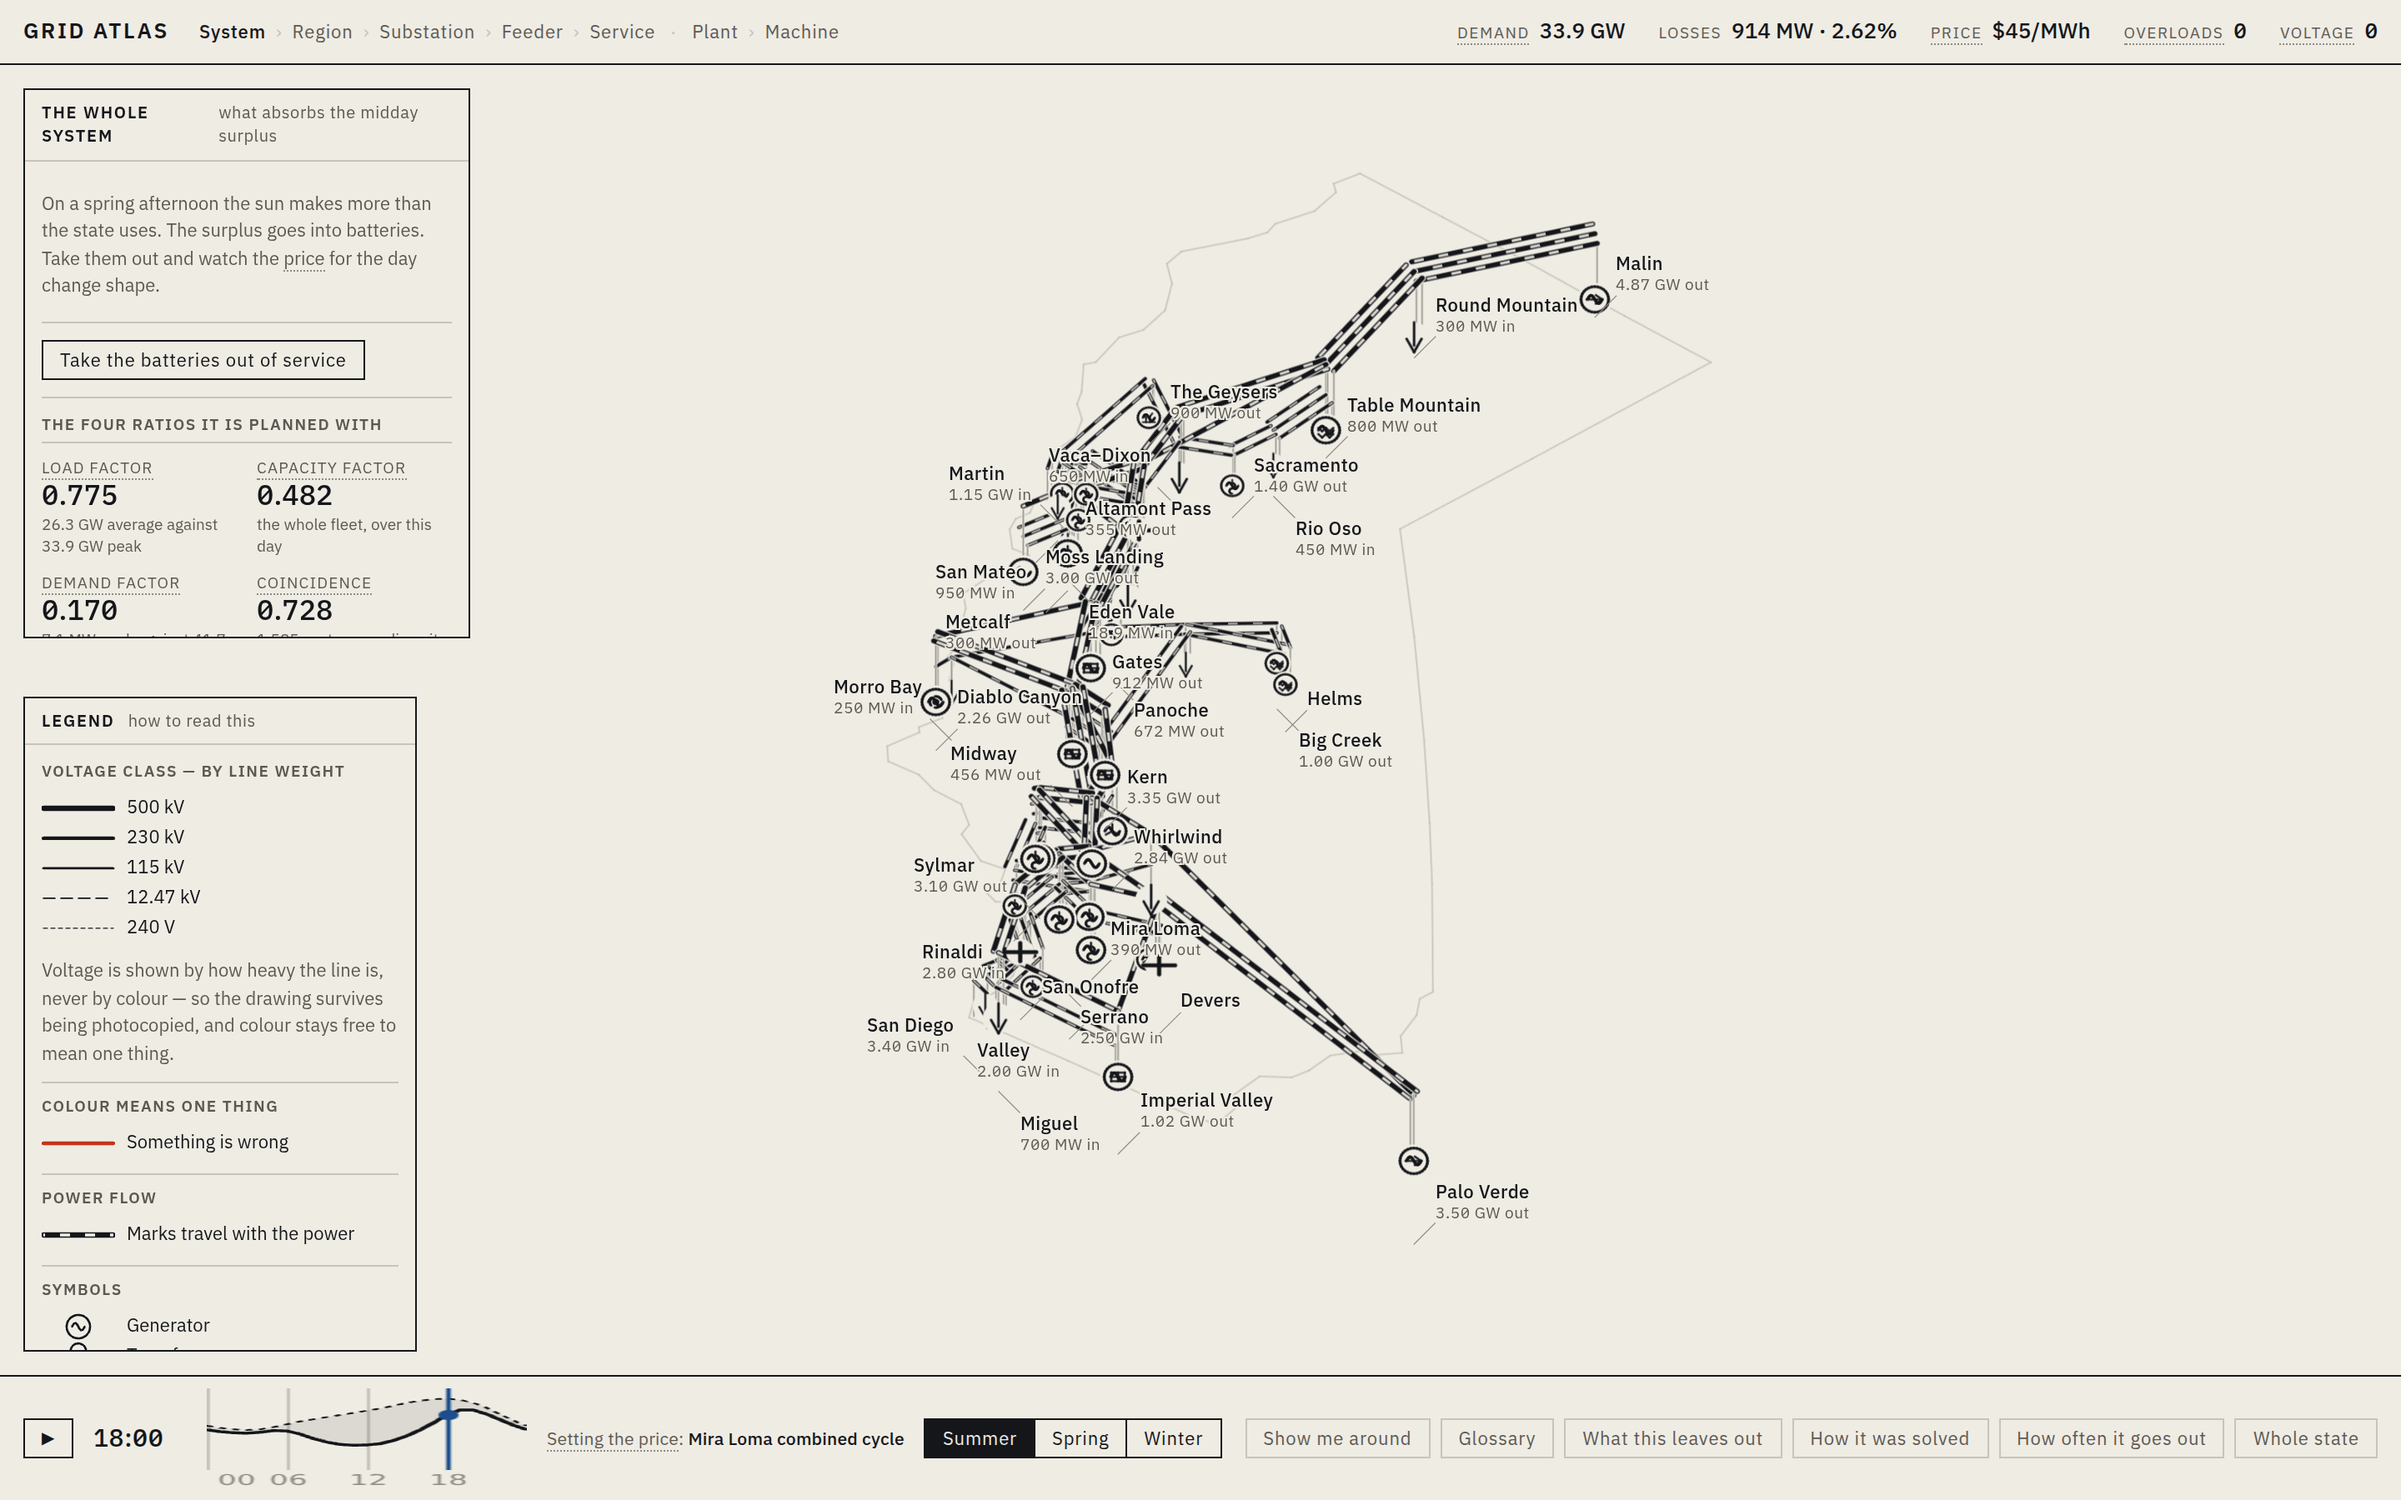
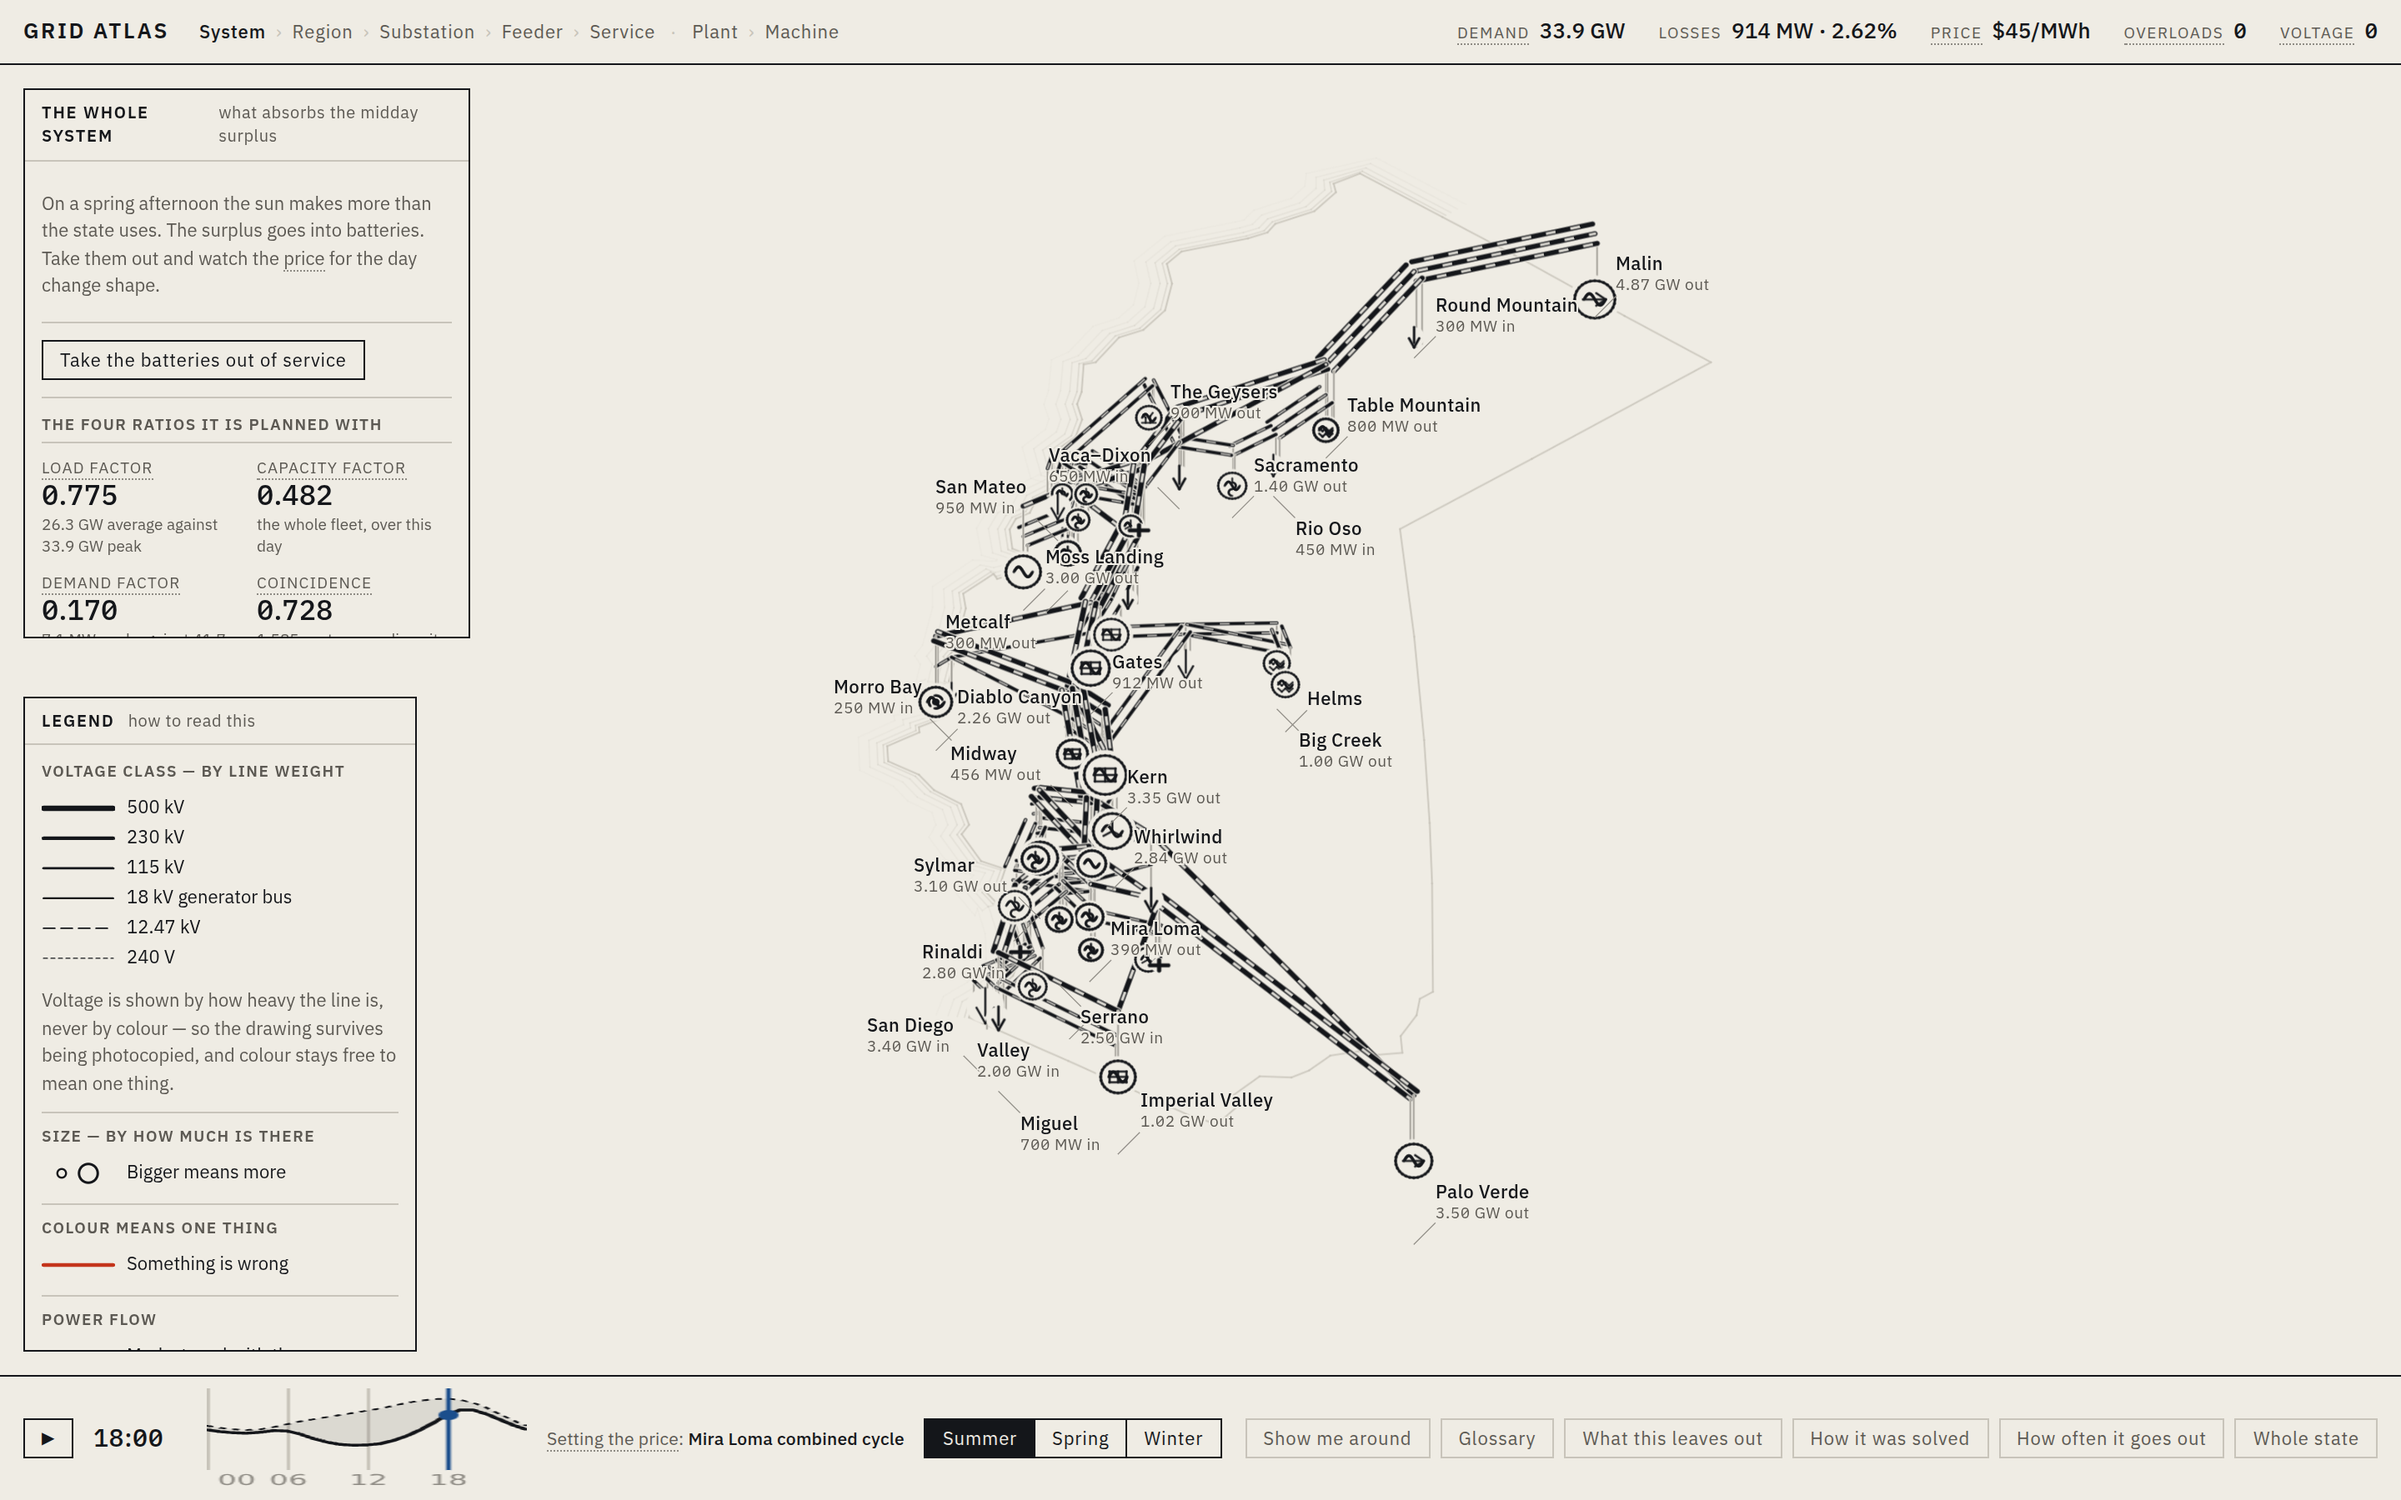
Give California a coast, and let the drawing say how big things are
THE COASTLINE READ AS A SHAPE, not as a coast: one hairline polygon on blank
paper, which is why the system view looked like line work floating in a void.
The Pacific side now gets the convention engraved maps have used for three
hundred years — a few lines parallel to the shore, stepping seaward and
fading. A handful of strokes, unmistakably water, and not a drop of colour or
a square inch of fill. The coastline itself is real Census boundary data; what
is new is a rendering convention applied to it.

The Pacific coast is found from the data rather than from a hand-kept index:
the boundary polygon runs from the Oregon corner east, south, west along the
Mexican border and then north up the coast, so everything after the
southernmost point IS the coast and it cannot drift out of step.

SYMBOL SIZE NOW MEANS SOMETHING. It was the highest voltage at the site, in
three buckets, so Diablo Canyon at 2.26 GW and an empty 500 kV switchyard
were drawn identically. At a glance the most useful thing about a site is how
much machine is there, and the model already knows — installed capacity where
there are generators, peak demand where there is load. Square-rooted, so a
four-gigawatt station is about six times the area of a hundred-megawatt one
rather than forty and off the page.

Voltage keeps the stroke weight, which is the encoding the legend promises.
And the legend has a new row saying what size means, because a legend that is
not complete is not a legend.
[…]

diff --git a/src/render/scene-terrain.ts b/src/render/scene-terrain.ts
@@ -1,0 +1,129 @@
+/**
+ * Where the state is, so the network has somewhere to be.
+ *
+ * The coastline was already in the drawing, as a single hairline. A hairline
+ * polygon does not read as a coast — it reads as a shape — and with nothing
+ * else on the page the whole system view came out as line work floating on
+ * blank paper.
+ *
+ * So the Pacific side gets the convention engraved maps have used for three
+ * hundred years: a few lines running parallel to the shore, stepping seaward
+ * and fading as they go. It costs a handful of strokes, it is unmistakably
+ * water without a drop of colour or a square inch of fill, and it turns the
+ * outline into a coast — which turns the drawing into a place.
+ *
+ * The coastline itself is real: US Census Bureau cartographic boundary data.
+ * What is drawn here is a rendering convention applied to it, not invented
+ * geography, and no line here claims to be anything but "the sea is this way".
+ */
+
+import { Vector3 } from 'three';
+import { LineSegment } from './line-batch.js';
+import { INK } from './style.js';
+import { CALIFORNIA_OUTLINE } from '../data/california/outline.js';
+import { project } from '../data/california/geography.js';
+import { toWorld } from './world.js';
+
+/**
+ * The Pacific coast, as the tail of the state boundary.
+ *
+ * The boundary polygon starts at the Oregon corner, runs east along the
+ * northern border, south down the Nevada and Arizona lines, west along the
+ * Mexican border, and then north up the coast back to where it started. So
+ * everything from the southernmost point to the end IS the coast, and finding
+ * it needs no hand-maintained index that could drift away from the data.
+ */
+const COAST: Vector3[] = (() => {
+  let southIdx = 0;
+  for (let i = 0; i < CALIFORNIA_OUTLINE.length; i++) {
+    if (CALIFORNIA_OUTLINE[i][1] < CALIFORNIA_OUTLINE[southIdx][1]) southIdx = i;
+  }
+  return CALIFORNIA_OUTLINE
+    .slice(southIdx)
+    .map(([lon, lat]) => toWorld(project(lat, lon), 0));
+})();
+
+/** How far out each shore line sits, in metres, and how strongly it is drawn. */
+const SHORE_LINES: { offsetM: number; opacity: number }[] = [
+  { offsetM: 3_500, opacity: 0.55 },
+  { offsetM: 9_000, opacity: 0.34 },
+  { offsetM: 16_000, opacity: 0.20 },
+  { offsetM: 25_000, opacity: 0.11 },
+];
+
+/**
+ * The seaward normal at each vertex, averaged from the segments either side.
+ *
+ * Travelling north up the west coast, the sea is on the left. Averaging the
+ * two adjacent segment normals keeps the offset lines smooth round a headland
+ * instead of splaying at every corner.
+ */
+function seawardNormals(path: Vector3[]): Vector3[] {
+  const out: Vector3[] = [];
+  for (let i = 0; i < path.length; i++) {
+    const before = path[Math.max(0, i - 1)];
+    const after = path[Math.min(path.length - 1, i + 1)];
+    const dx = after.x - before.x;
+    const dz = after.z - before.z;
+    const len = Math.hypot(dx, dz) || 1;
+    // Rotate the direction of travel a quarter turn to the seaward side.
+    out.push(new Vector3(dz / len, 0, -dx / len));
+  }
+  return out;
+}
+
+const NORMALS = seawardNormals(COAST);
+
+export interface TerrainDrawResult {
+  segments: LineSegment[];
+}
+
+export function drawTerrain(
+  opacity: number,
+  view: { min: { x: number; z: number }; max: { x: number; z: number } } | null
+): TerrainDrawResult {
+  const segments: LineSegment[] = [];
+  if (opacity <= 0.004) return { segments };
+
+  const cull = view ? (() => {
+    const cx = (view.min.x + view.max.x) / 2;
+    const cz = (view.min.z + view.max.z) / 2;
+    const reach = 0.5 * Math.hypot(
+      view.max.x - view.min.x, view.max.z - view.min.z) + 40_000;
+    return { cx, cz, reach };
+  })() : null;
+
+  const near = (a: Vector3, b: Vector3): boolean => {
+    if (!cull) return true;
+    const mx = (a.x + b.x) / 2;
+    const mz = (a.z + b.z) / 2;
+    return Math.hypot(mx - cull.cx, mz - cull.cz) <= cull.reach;
+  };
+
+  for (const shore of SHORE_LINES) {
+    for (let i = 0; i + 1 < COAST.length; i++) {
+      const a = COAST[i].clone().addScaledVector(NORMALS[i], shore.offsetM);
+      const b = COAST[i + 1].clone().addScaledVector(NORMALS[i + 1], shore.offsetM);
+      if (!near(a, b)) continue;
+      segments.push({
+        a: [a.x, 0, a.z], b: [b.x, 0, b.z],
+        widthPx: 0.7, color: INK.inkGhost, opacity: opacity * shore.opacity,
+      });
+    }
+  }
+
+  return { segments };
+}
+
+/** Extent of the coast plus its shore lines, for the compositor. */
+export function terrainBounds(): {
+  min: { x: number; z: number }; max: { x: number; z: number };
+} {
+  let minX = Infinity, minZ = Infinity, maxX = -Infinity, maxZ = -Infinity;
+  const pad = SHORE_LINES[SHORE_LINES.length - 1].offsetM;
+  for (const p of COAST) {
+    minX = Math.min(minX, p.x - pad); maxX = Math.max(maxX, p.x + pad);
+    minZ = Math.min(minZ, p.z - pad); maxZ = Math.max(maxZ, p.z + pad);
+  }
+  return { min: { x: minX, z: minZ }, max: { x: maxX, z: maxZ } };
+}

diff --git a/src/render/scene-system.ts b/src/render/scene-system.ts
@@ -482,10 +482,26 @@ export function drawSystem(
     const color = anyAlarm ? SIGNAL.alarm : isSelected ? SELECTION.stroke : INK.ink;
     const emphasis = isSelected || isHovered ? 1.35 : 1;
 
-    // Size communicates importance: the highest voltage present at the site.
+    // SIZE IS HOW MUCH MACHINE IS THERE; WEIGHT IS VOLTAGE.
+    //
+    // Size used to be the highest voltage present, in three buckets, which
+    // meant Diablo Canyon at 2.26 GW and an empty 500 kV switchyard were drawn
+    // identically. At a glance the most useful thing about a site is how big
+    // it is, and the model already knows: installed capacity where there are
+    // machines, peak demand where there is load.
+    //
+    // Square-rooted, so a four-gigawatt station is about six times the area of
+    // a hundred-megawatt one rather than forty times it and off the page.
+    // Voltage keeps the stroke weight, which is the encoding the legend
+    // promises and the one that must not move.
     const topKV = Math.max(...node.buses.map((b) => b.kV));
-    const size = (topKV >= 500 ? 1.25 : topKV >= 230 ? 1.0 : 0.78) *
-      LAYOUT.siteSymbolPx * emphasis;
+    const capacityMW = node.generation.reduce((a, g) => a + g.capacityMW, 0);
+    const scaleFor = (mw: number, floor: number, span: number): number =>
+      Math.max(floor, Math.min(1.9, floor + span * Math.sqrt(Math.max(0, mw) / 3000)));
+    const magnitude = capacityMW > 0 ? scaleFor(capacityMW, 0.62, 0.95)
+      : node.peakLoadMW > 0 ? scaleFor(node.peakLoadMW, 0.58, 0.85)
+      : 0.72;
+    const size = magnitude * LAYOUT.siteSymbolPx * emphasis;
     const strokeW = (topKV >= 500 ? 1.5 : 1.2) * (isSelected ? 1.5 : 1);
 
     const place = {

diff --git a/src/app/legend.ts b/src/app/legend.ts
@@ -46,6 +46,16 @@ function strokeSwatch(weightPx: number, dash: number[], color: string = INK.ink)
   );
 }
 
+/** Two circles, to say that size means quantity. */
+function sizeSwatch(): string {
+  return (
+    `<svg width="34" height="14" viewBox="0 0 34 14" aria-hidden="true">` +
+    `<circle cx="7" cy="7" r="2.6" fill="none" stroke="${INK.ink}" stroke-width="1.2"/>` +
+    `<circle cx="23" cy="7" r="5.6" fill="none" stroke="${INK.ink}" stroke-width="1.5"/>` +
+    `</svg>`
+  );
+}
+
 export class Legend {
   readonly element: HTMLElement;
   private readonly body: HTMLElement;
@@ -98,6 +108,17 @@ export class Legend {
       'drawing survives being photocopied, and colour stays free to mean ' +
       'one thing.';
     v.appendChild(note);
+
+    // --- What the size of a symbol means -----------------------------------
+    // The legend has to be complete, and symbol size now carries meaning, so
+    // it has to say what.
+    const z = this.group('Size — by how much is there');
+    this.row(
+      z, sizeSwatch(), 'Bigger means more',
+      'A site symbol is drawn larger where there is more generating capacity, ' +
+      'or more demand. Square-rooted, so a four-gigawatt station is about six ' +
+      'times the area of a hundred-megawatt one rather than forty.'
+    );
 
     // --- The one signal colour ---------------------------------------------
     const s = this.group('Colour means one thing');

diff --git a/src/app/scenes.ts b/src/app/scenes.ts
@@ -44,6 +44,7 @@ import { drawSubstation, substationBounds } from '../render/scene-substation.js'
 import { FeederGeometry, drawFeeder } from '../render/scene-feeder.js';
 import { drawService, serviceBounds } from '../render/scene-service.js';
 import { drawGround, groundBounds } from '../render/scene-ground.js';
+import { drawTerrain } from '../render/scene-terrain.js';
 import { drawPlant, plantBounds } from '../render/scene-plant.js';
 import { drawMachine, machineBounds } from '../render/scene-machine.js';
 import { Generator } from '../core/network.js';
@@ -248,6 +249,15 @@ export function composeFrame(input: ComposeInput): ComposeResult {
     active.push({ scene, alpha, fit: screenFit(bounds, view) });
     return alpha;
   };
+
+  // --- the coast, behind everything ------------------------------------------
+  // Not a scene with a panel and a name: it is the paper the state is drawn on.
+  // Visible wherever the transmission drawing is, and gone once the window is
+  // small enough that the nearest coastline is a hundred kilometres away.
+  if (mpp > 12) {
+    const shore = drawTerrain(Math.min(1, (mpp - 12) / 40), view);
+    segments.push(...shore.segments);
+  }
 
   // --- the ground, before anything electrical -------------------------------
   const aGround = include('ground', groundBounds());

diff --git a/test/no-hardcoded-quantities.test.ts b/test/no-hardcoded-quantities.test.ts
@@ -300,8 +300,14 @@ describe('every displayed quantity comes from the solver', () => {
   it('collects enough labels to be worth checking', () => {
     // If the scenes ever stop returning labels as data, this check silently
     // becomes vacuous, which would be worse than it failing.
-    expect(LABELS[0].size).toBeGreaterThan(120);
-    for (const set of LABELS) expect(set.size).toBeGreaterThan(120);
+    //
+    // The floor moved from 120 to 100 when the plant stopped printing a
+    // standing caption on all eighteen of its items. Those captions still
+    // exist — they appear on hover — and they are built from the same stream
+    // and rating data the visible ones use, so no PATH to a displayed number
+    // stopped being covered. What shrank is the count, not the coverage.
+    expect(LABELS[0].size).toBeGreaterThan(100);
+    for (const set of LABELS) expect(set.size).toBeGreaterThan(100);
     // Every branch of the zoom tree must actually be represented, or the
     // check below quietly stops covering half the app.
     for (const prefix of ['feeder:', 'sub:', 'svc:', 'plant:', 'machine:']) {
